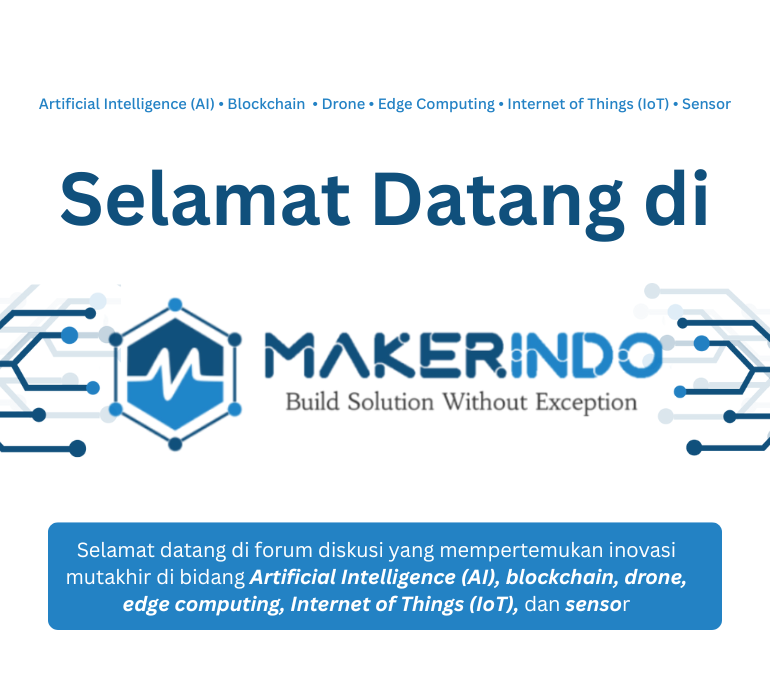
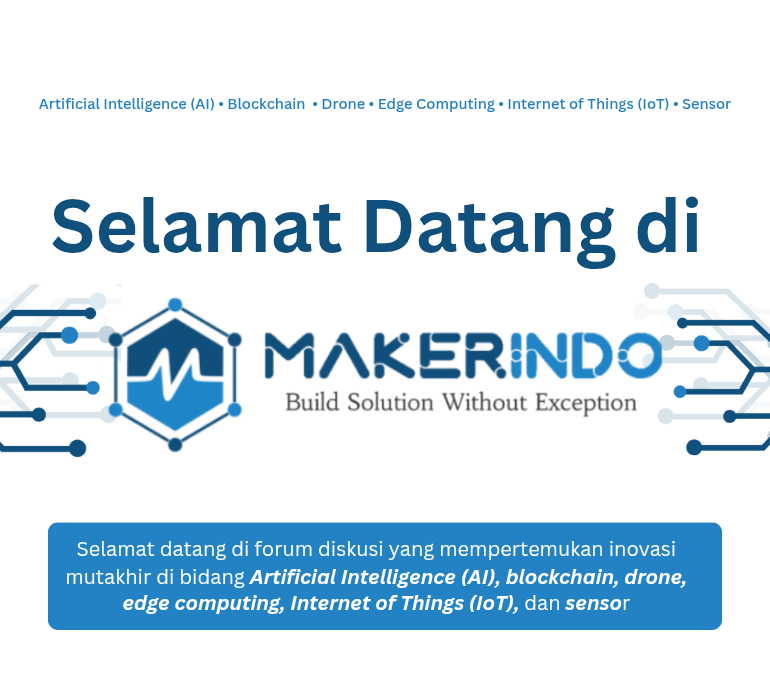
optimization

diff --git a/index.html b/index.html
@@ -9,7 +9,7 @@
     </head>
     <body>
         <div class="frame">
-            <div class="logo"><img src="assets/logo.png" alt=""></div>
+            <div class="logo"><img src="assets/logo.webp" alt=""></div>
             <div class="square ghost"></div>
             <div class="square"></div>
             <div class="bg"></div>
@@ -18,16 +18,16 @@
                     <img src="assets/welcome.png" alt="">
                 </section>
                 <section class="page">
-                    <img src="assets/patk.png" alt="">
+                    <img src="assets/patk.webp" alt="">
                 </section>
                 <section class="page">
-                    <img src="assets/subsoil.png" alt="">
+                    <img src="assets/subsoil.webp" alt="">
                 </section>
                 <section class="page">
-                    <img src="assets/halter.png" alt="">
+                    <img src="assets/halter.webp" alt="">
                 </section>
                 <section class="page">
-                    <img src="assets/mou.png" alt="">
+                    <img src="assets/mou.webp" alt="">
                 </section>
             </div>
             <div class="slogan"><p><b>Selamat berdiskusi dan berkarya</b></p></div>

diff --git a/index.css b/index.css
@@ -1,3 +1,8 @@
+* {
+  margin: 0;
+  padding: 0;
+}
+
 /*Frame*/
 .frame {
   width: 765px;
@@ -10,7 +15,7 @@
 .bg {
   position: absolute;
   inset: -50px;
-  background-image: url("assets/bg.png");
+  background-image: url("assets/bg.webp");
   opacity: 0.5;
   background-repeat: repeat;
   background-size: 400px 400px;
@@ -52,6 +57,7 @@
   max-width: 100%;
   max-height: 100%;
   object-fit: contain;
+  pointer-events: none;
 }
 .page.active {
   opacity: 1;
@@ -72,9 +78,9 @@
 
 /*Slogan*/
 .slogan {
-  font-family: Inter, sans-serif;
+  font-family: system-ui, -apple-system, BlinkMacSystemFont, 'Segoe UI', Roboto, Oxygen, Ubuntu, Cantarell, 'Open Sans', 'Helvetica Neue', sans-serif;
   position: absolute;
-  bottom: 80px;
+  bottom: 120px;
   left: 180px;
   width: 100%;
   text-align: center;

diff --git a/index.js b/index.js
@@ -1,5 +1,5 @@
 const pages = document.querySelectorAll(".page");
-const INTERVAL = 7_000; // 30 seconds
+const INTERVAL = 5_000; // 30 seconds
 let index = 0;
 
 setInterval(() => {
